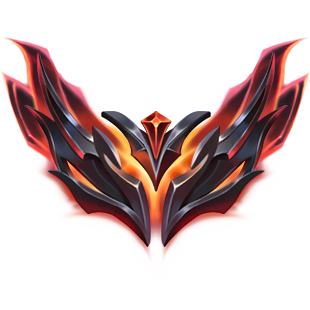
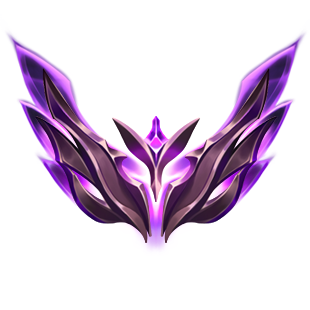
[ADD] emerald rank

diff --git a/src/utils/LeagueLCU.ts b/src/utils/LeagueLCU.ts
@@ -109,11 +109,13 @@ export const useLeagueLCUAPI = () => {
         ) {
             ipcRenderer.send(
                 'download-image',
-                `http://ddragon.leagueoflegends.com/cdn/13.9.1/img/profileicon/${iconId}.png`,
+                `http://ddragon.leagueoflegends.com/cdn/13.14.1/img/profileicon/${iconId}.png`,
                 `${process.env['RESOURCES_FOLDER']}profileIcons/${iconId}.png`,
                 response.data.summonerId
             );
         }
+        console.log(response.data);
+
         return {
             summoner_name: response.data.displayName,
             iconId,
@@ -124,14 +126,14 @@ export const useLeagueLCUAPI = () => {
 
     async function getSummonerWallet(): Promise<{ rp: number; be: number }> {
         await waitIsLoggedIn();
-        const endpoint = `${baseUrl.value}/lol-store/v1/wallet`;
-        const response = await axios.get(endpoint, {
-            auth: auth.value,
-            httpsAgent
-        });
+        // const endpoint = `${baseUrl.value}/lol-store/v1/wallet`;
+        // const response = await axios.get(endpoint, {
+        //     auth: auth.value,
+        //     httpsAgent
+        // });
         return {
-            rp: response.data.rp,
-            be: response.data.ip
+            rp: 0,
+            be: 0
         };
     }
 
@@ -160,6 +162,7 @@ export const useLeagueLCUAPI = () => {
         const soloQStats = response.data.queues.find(
             (queue: any) => queue.queueType === 'RANKED_SOLO_5x5'
         );
+
         return {
             tier: soloQStats.tier,
             division: soloQStats.division,

diff --git a/src/components/account/Elo.vue b/src/components/account/Elo.vue
@@ -20,11 +20,12 @@
 import { PropType, computed } from 'vue';
 import { Account } from '../../types';
 import UiCardCircle from '../ui/cards/Circle.vue';
-import ChallengerImg from '../../assets/rank/9.png';
-import GrandmasterImg from '../../assets/rank/8.png';
-import MasterImg from '../../assets/rank/7.png';
-import DiamondImg from '../../assets/rank/6.png';
-import PlatinumImg from '../../assets/rank/5.png';
+import ChallengerImg from '../../assets/rank/10.png';
+import GrandmasterImg from '../../assets/rank/9.png';
+import MasterImg from '../../assets/rank/8.png';
+import DiamondImg from '../../assets/rank/7.png';
+import PlatinumImg from '../../assets/rank/6.png';
+import EmeraldImg from '../../assets/rank/5.png';
 import GoldImg from '../../assets/rank/4.png';
 import SilverImg from '../../assets/rank/3.png';
 import BronzeImg from '../../assets/rank/2.png';
@@ -45,6 +46,7 @@ const img = [
     SilverImg,
     GoldImg,
     PlatinumImg,
+    EmeraldImg,
     DiamondImg,
     MasterImg,
     GrandmasterImg,
@@ -58,6 +60,7 @@ const correspondingTier = [
     'Silver',
     'Gold',
     'Platinum',
+    'Emerald',
     'Diamond',
     'Master',
     'Grandmaster',

diff --git a/src/components/account/Account.vue b/src/components/account/Account.vue
@@ -76,6 +76,7 @@ const APITier = [
     'SILVER',
     'GOLD',
     'PLATINUM',
+    'EMERALD',
     'DIAMOND',
     'MASTER',
     'GRANDMASTER',
